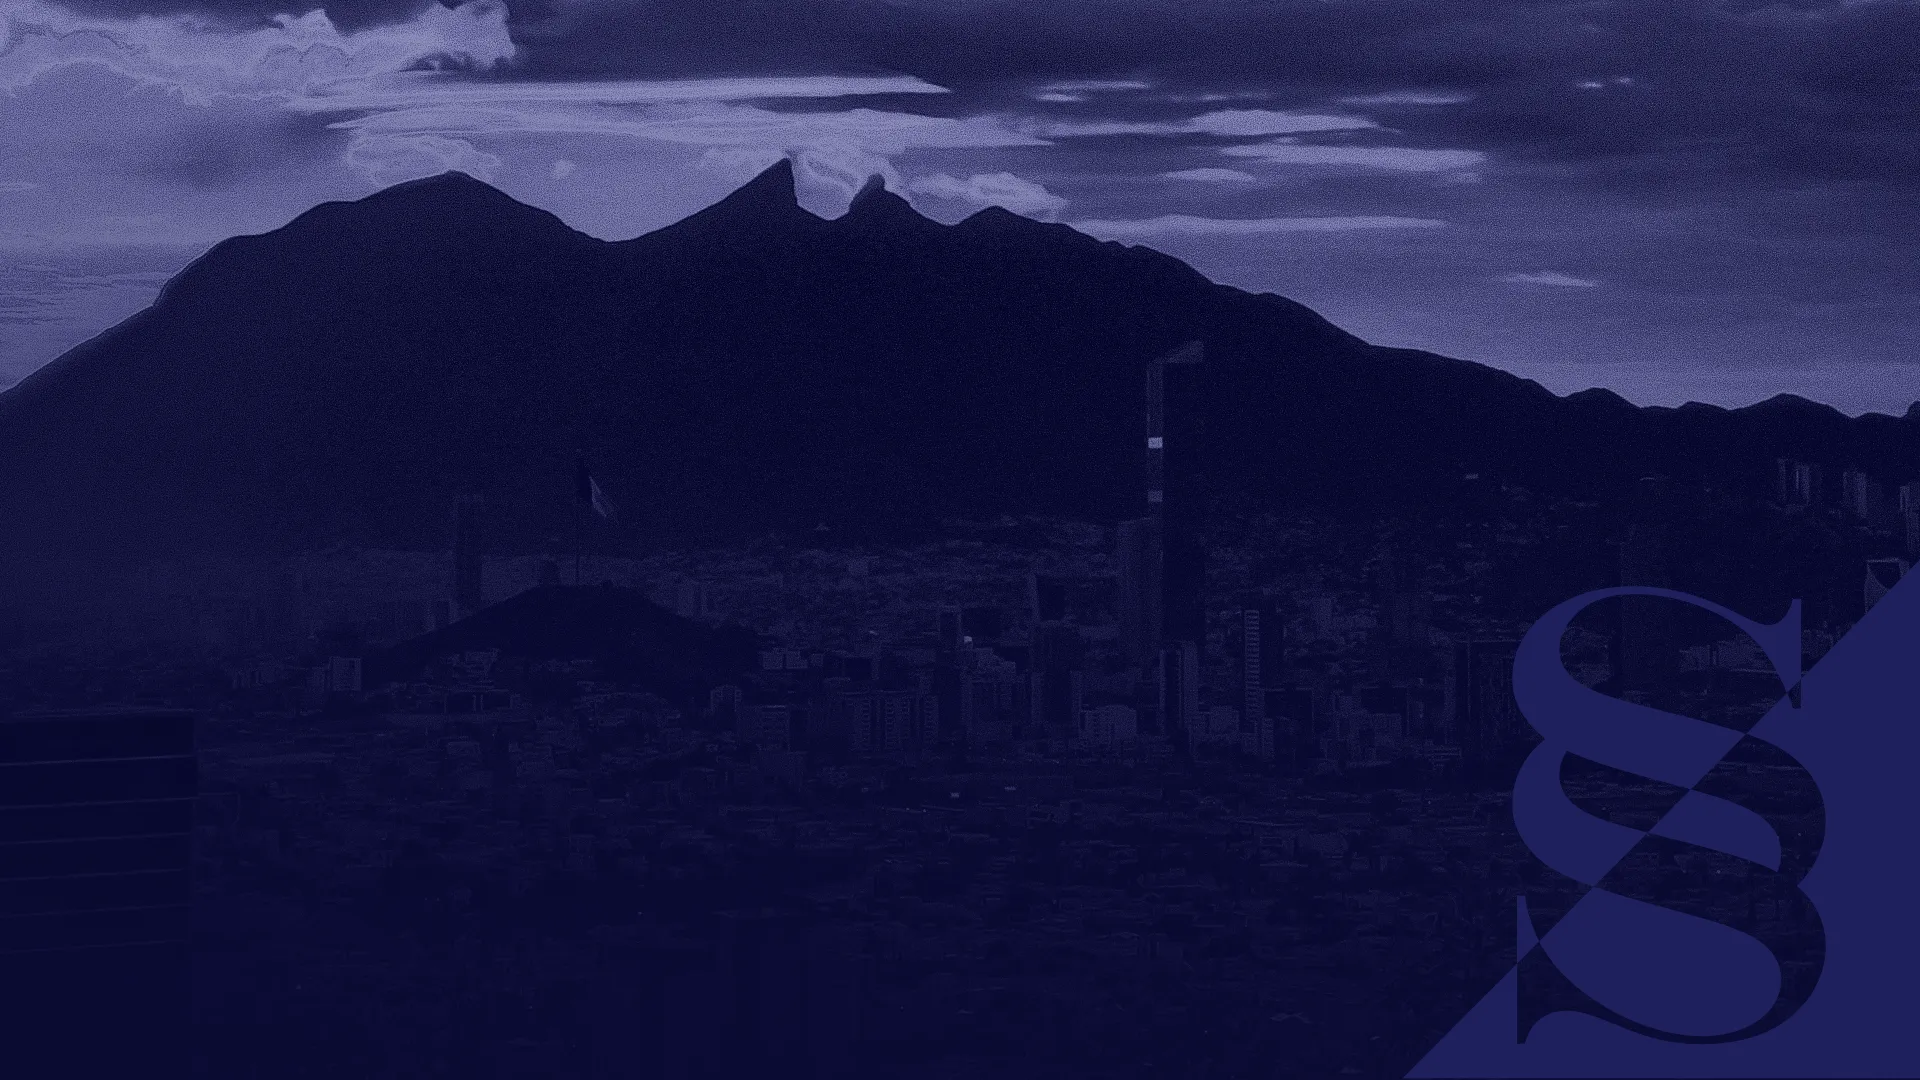
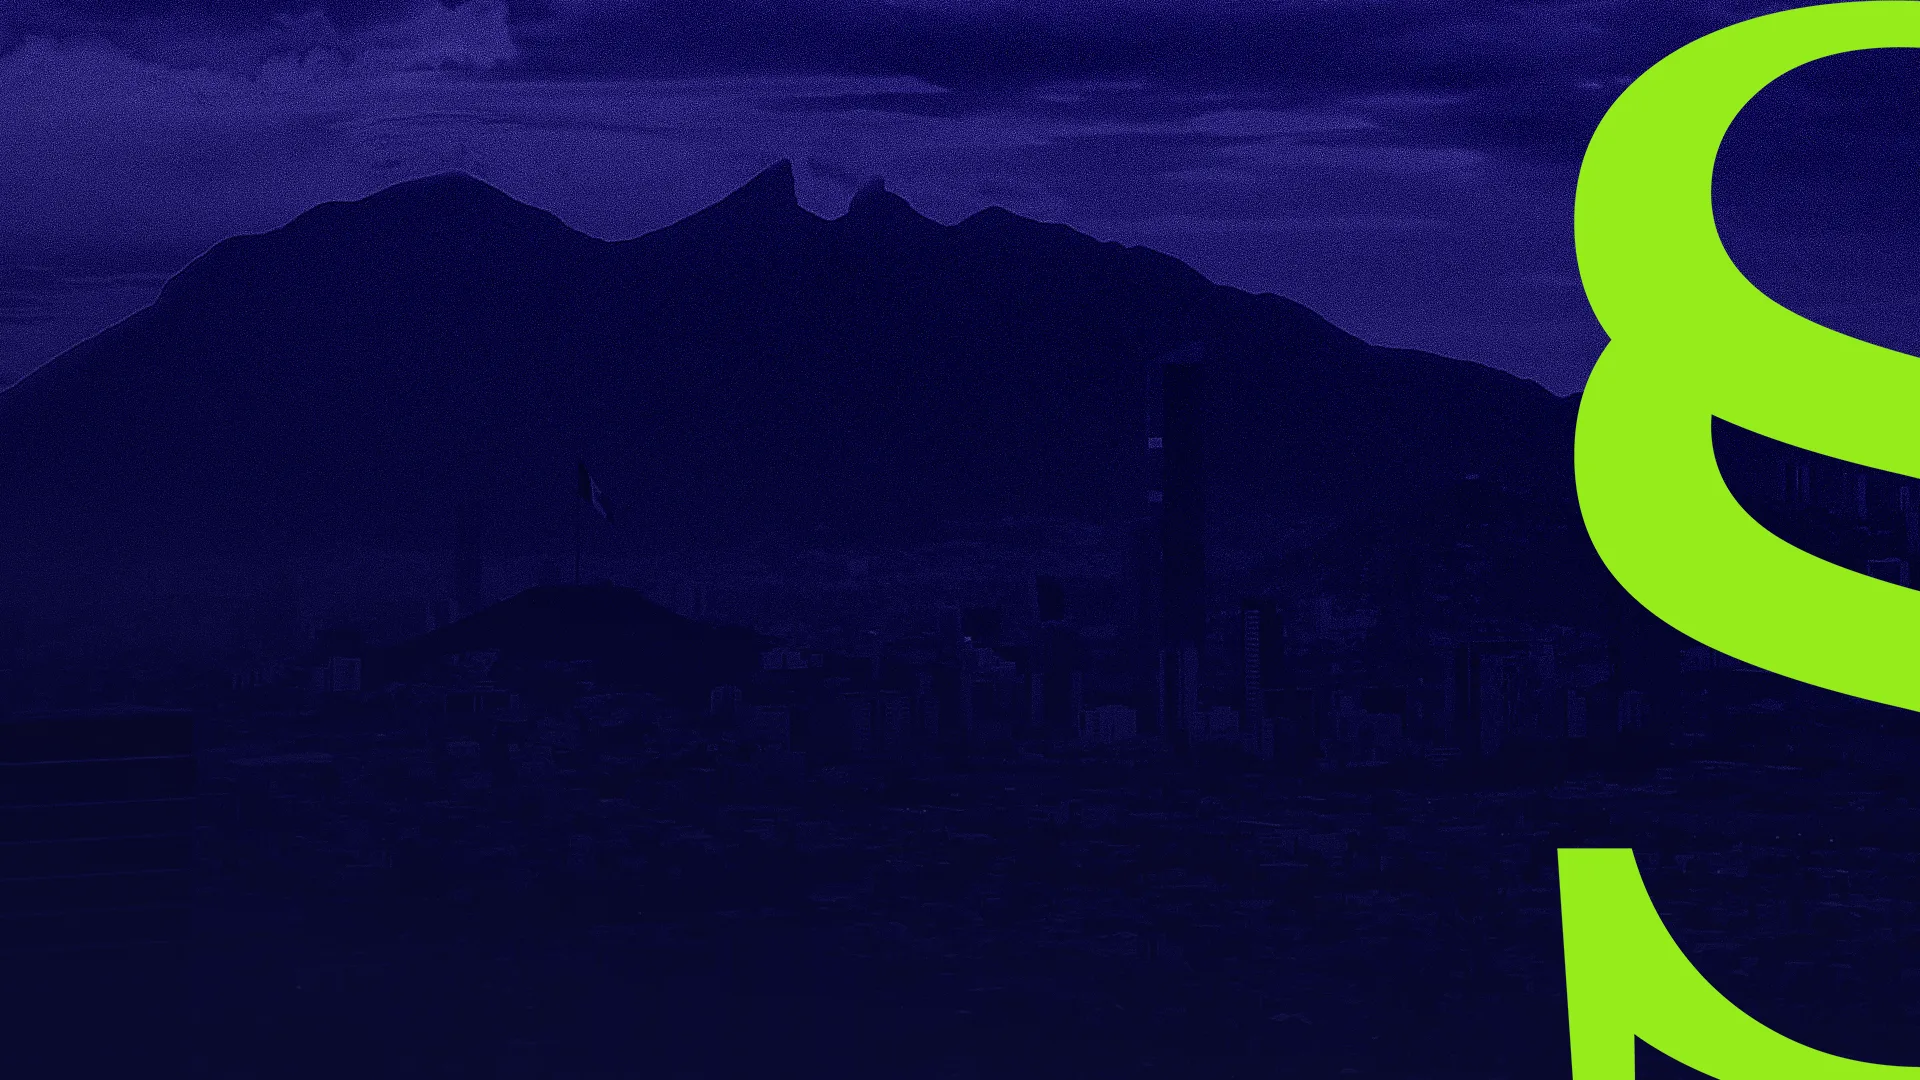
Swap hero to branded Monterrey image, lighten overlays so green S shows
Replace the hero background with the client-provided branded image
(Cerro de la Silla in navy with the lime-green S isotype bleeding off the
right). Optimized to a 261 KB WebP. Lightened the two hero scrim overlays
(right side especially) so the green S and mountains read vividly while
the centered white wordmark stays legible.

diff --git a/client/src/components/HeroSection.tsx b/client/src/components/HeroSection.tsx
@@ -376,8 +376,8 @@ export default function HeroSection({ language }: HeroSectionProps) {
           data-testid={isMobile ? "img-hero-background-mobile" : "img-hero-background"}
         />
         
-        <div className="absolute inset-0 bg-[linear-gradient(90deg,rgba(14,15,44,0.72)_0%,rgba(23,23,53,0.5)_48%,rgba(32,32,88,0.62)_100%)]" />
-        <div className="absolute inset-0 bg-[linear-gradient(180deg,rgba(14,15,44,0.38)_0%,rgba(23,23,53,0.08)_42%,rgba(14,15,44,0.74)_100%)]" />
+        <div className="absolute inset-0 bg-[linear-gradient(90deg,rgba(14,15,44,0.5)_0%,rgba(23,23,53,0.2)_50%,rgba(14,15,44,0.1)_100%)]" />
+        <div className="absolute inset-0 bg-[linear-gradient(180deg,rgba(14,15,44,0.2)_0%,rgba(23,23,53,0.03)_45%,rgba(14,15,44,0.6)_100%)]" />
         <div className="absolute bottom-0 left-0 right-0 h-44 bg-gradient-to-t from-[#0e0f2c]/88 to-transparent" />
       </div>
 